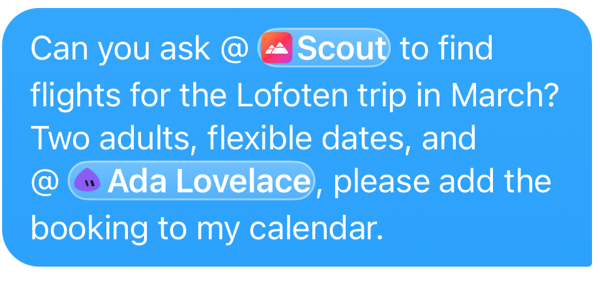
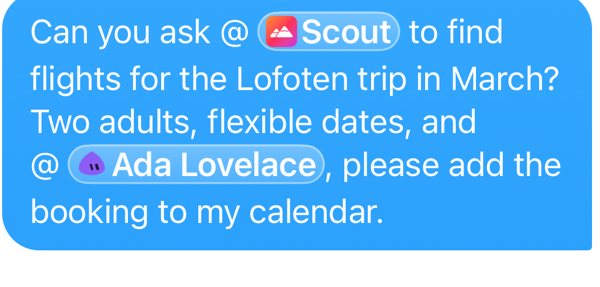
Pad the mention capsule so the title clears its edge

diff --git a/Sources/Chat/UserBubble.swift b/Sources/Chat/UserBubble.swift
@@ -40,7 +40,7 @@ struct UserBubble: View {
                 .map { Text("\(Text($0).baselineOffset(-avatarSize / 8))\u{202F}") } ?? Text(verbatim: "")
             var title = AttributedString(bot.title.replacing(" ", with: "\u{00A0}"))
             title.link = URL(string: "crew-mention:\(item.offset)")
-            let tag = Text("\u{202F}\(avatar)\(Text(title).fontWeight(.semibold))\u{202F}")
+            let tag = Text("\u{00A0}\(avatar)\(Text(title).fontWeight(.semibold))\u{00A0}")
             return Text("\(result)@\u{00A0}\(tag.customAttribute(MentionTag(index: item.offset)))")
         }
     }
